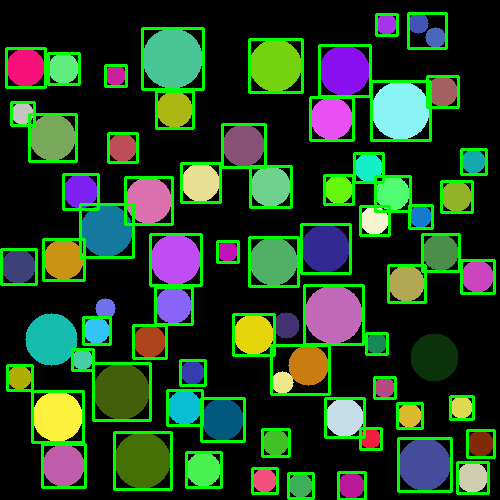
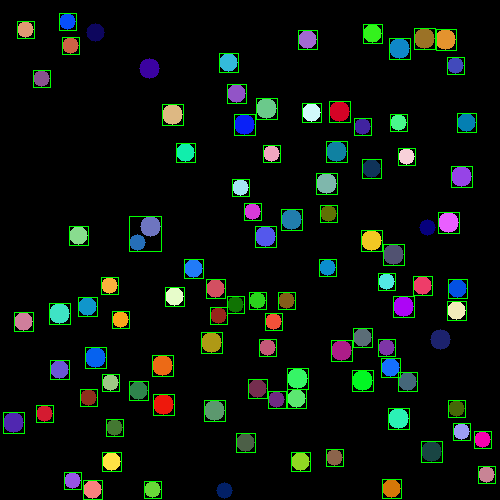
update

diff --git a/split/create-data.py b/split/create-data.py
@@ -5,9 +5,9 @@ import random
 # 参数设置
 image_width = 500  # 图像宽度
 image_height = 500  # 图像高度
-min_radius = 10  # 圆的最小半径
-max_radius = 30  # 圆的最大半径
-target_density = 0.3  # 目标密度（30%）
+min_radius = 8  # 圆的最小半径
+max_radius = 10  # 圆的最大半径
+target_density = 0.1  # 目标密度（30%）
 
 # 创建空白图像
 image = np.zeros((image_height, image_width, 3), dtype=np.uint8)
@@ -42,9 +42,9 @@ while circle_area / total_area < target_density:
         circle_area += np.pi * radius ** 2  # 更新总面积
 
 # 显示图像
-# cv2.imshow("Random Circles", image)
-# cv2.waitKey(0)
-# cv2.destroyAllWindows()
+cv2.imshow("Random Circles", image)
+cv2.waitKey(0)
+cv2.destroyAllWindows()
 
 # 如果需要保存图像
 cv2.imwrite("particles.png", image)

diff --git a/split/sobel.py b/split/sobel.py
@@ -16,7 +16,7 @@ for contour in contours:
     area = cv2.contourArea(contour)
     if area > 100:  # 面积阈值
         x, y, w, h = cv2.boundingRect(contour)
-        cv2.rectangle(image, (x, y), (x + w, y + h), (0, 255, 0), 2)
+        cv2.rectangle(image, (x, y), (x + w, y + h), (0, 255, 0), 1)
 
 # 5. 显示结果
 cv2.imshow("Rectangles", image)
